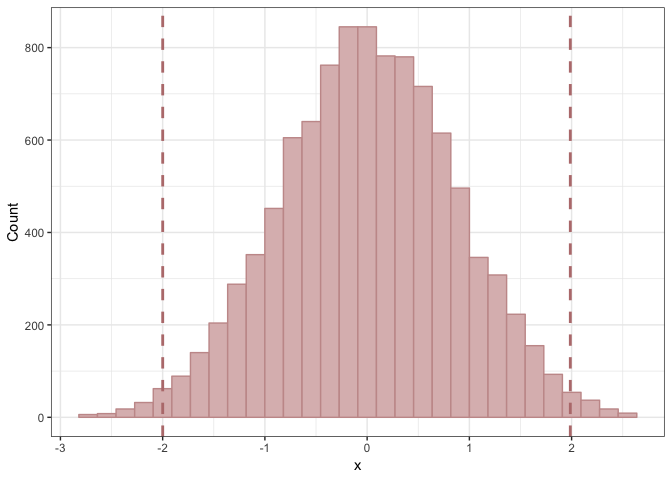
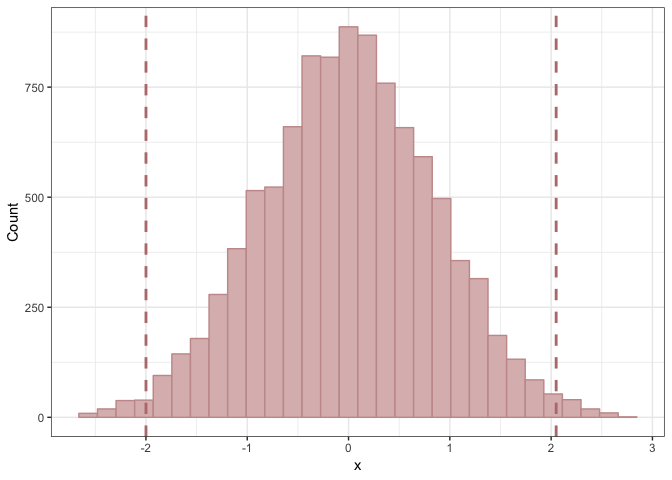
README update: stanTuner to stanTuneR (because you got to be clever and use that cap R)

diff --git a/README.md b/README.md
@@ -1,4 +1,4 @@
-stanTuner
+stanTuneR
 ================
 
 This code uses the algebra solver in [Stan](https://mc-stan.org/) to
@@ -34,7 +34,7 @@ install the `shiny` and `shinycssloaders` libraries
 To use the Shiny app, just run the following code in R:
 
     library(shiny)
-    runGitHub('jhelvy/stanTuner')
+    runGitHub('jhelvy/stanTuneR')
 
 # Example without the Shiny app
 
@@ -84,8 +84,8 @@ results = funcs$tuneParams(distribution='normal', targets)
     ## Chain 1: Iteration: 1 / 1 [100%]  (Sampling)
     ## Chain 1: 
     ## Chain 1:  Elapsed Time: 0 seconds (Warm-up)
-    ## Chain 1:                0.001176 seconds (Sampling)
-    ## Chain 1:                0.001176 seconds (Total)
+    ## Chain 1:                0.001221 seconds (Sampling)
+    ## Chain 1:                0.001221 seconds (Total)
     ## Chain 1:
 
 View the resulting parameters and verify that the quantiles of 10,000
@@ -106,7 +106,7 @@ results$quantiles
 ```
 
     ##        1%       99% 
-    ## -1.999538  1.987362
+    ## -1.999615  2.049685
 
 Finally, view a histogram of the resulting distribution:
 
